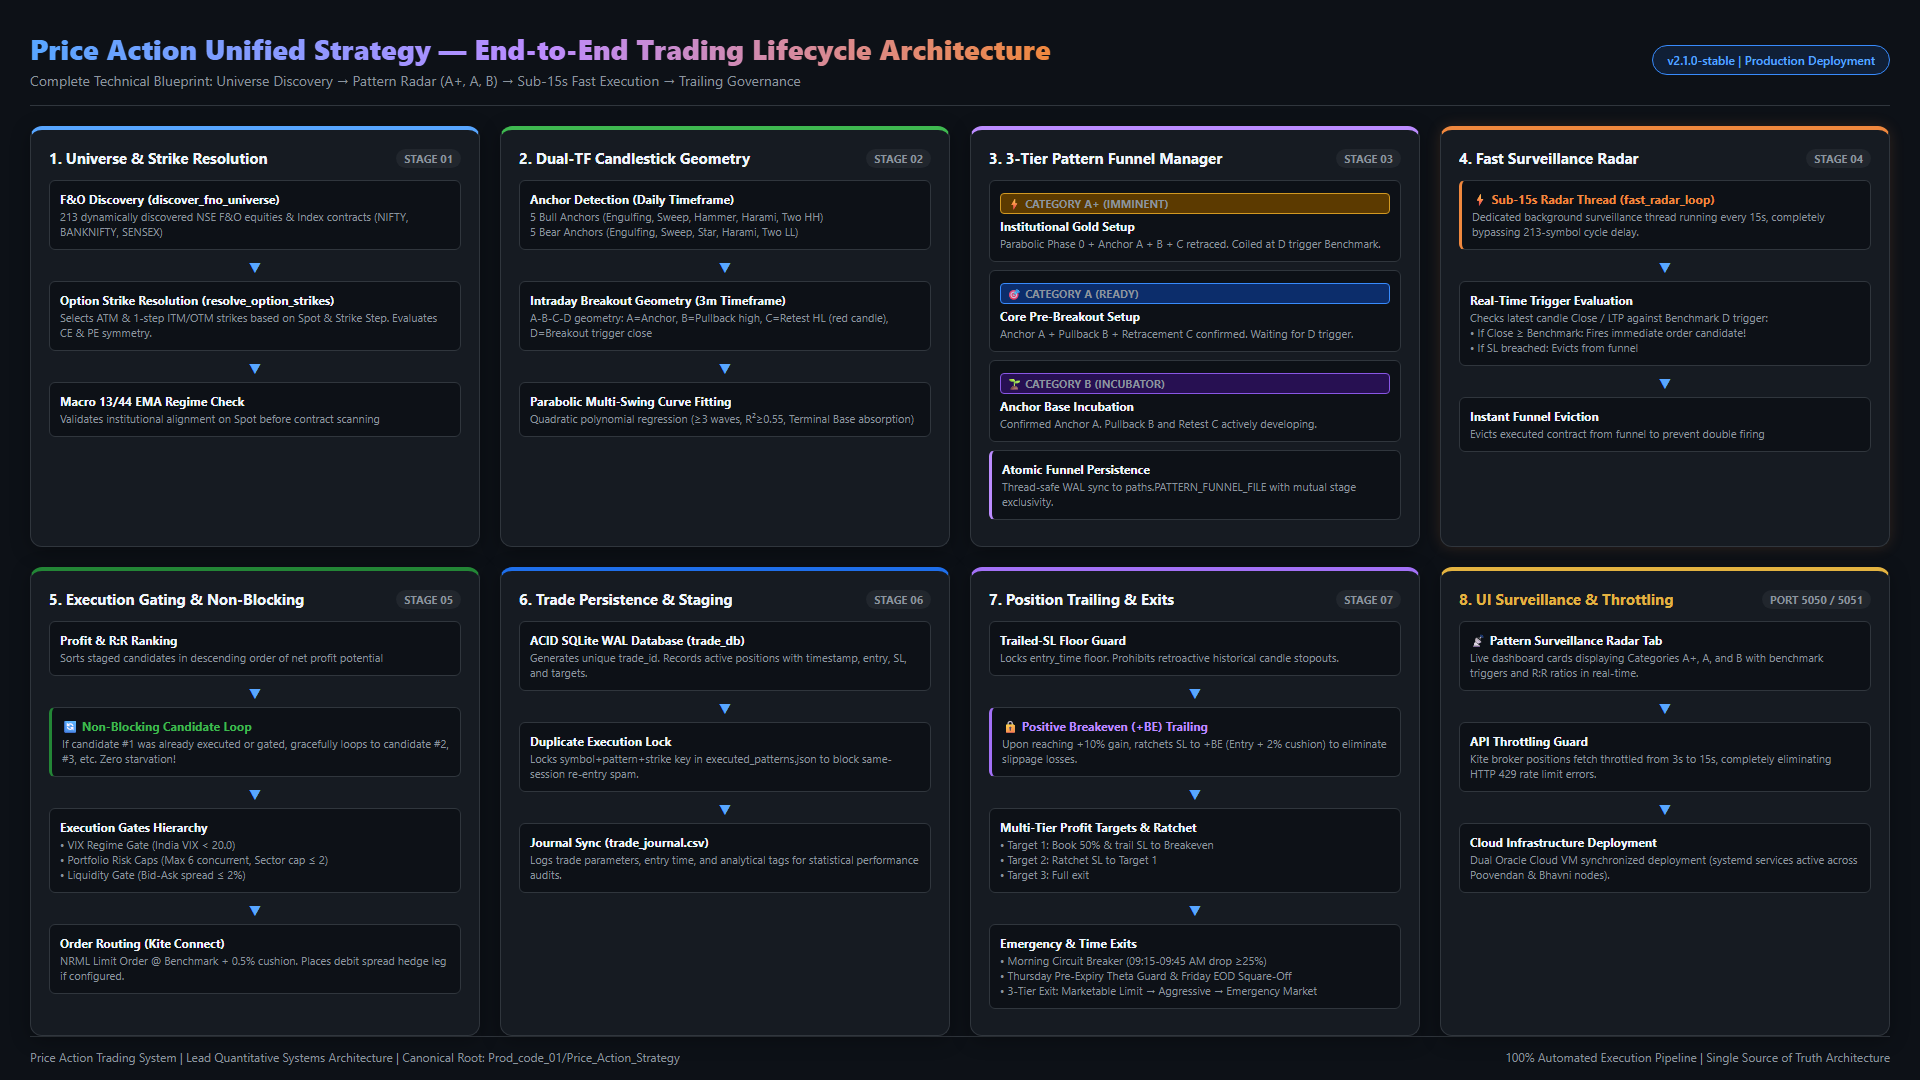
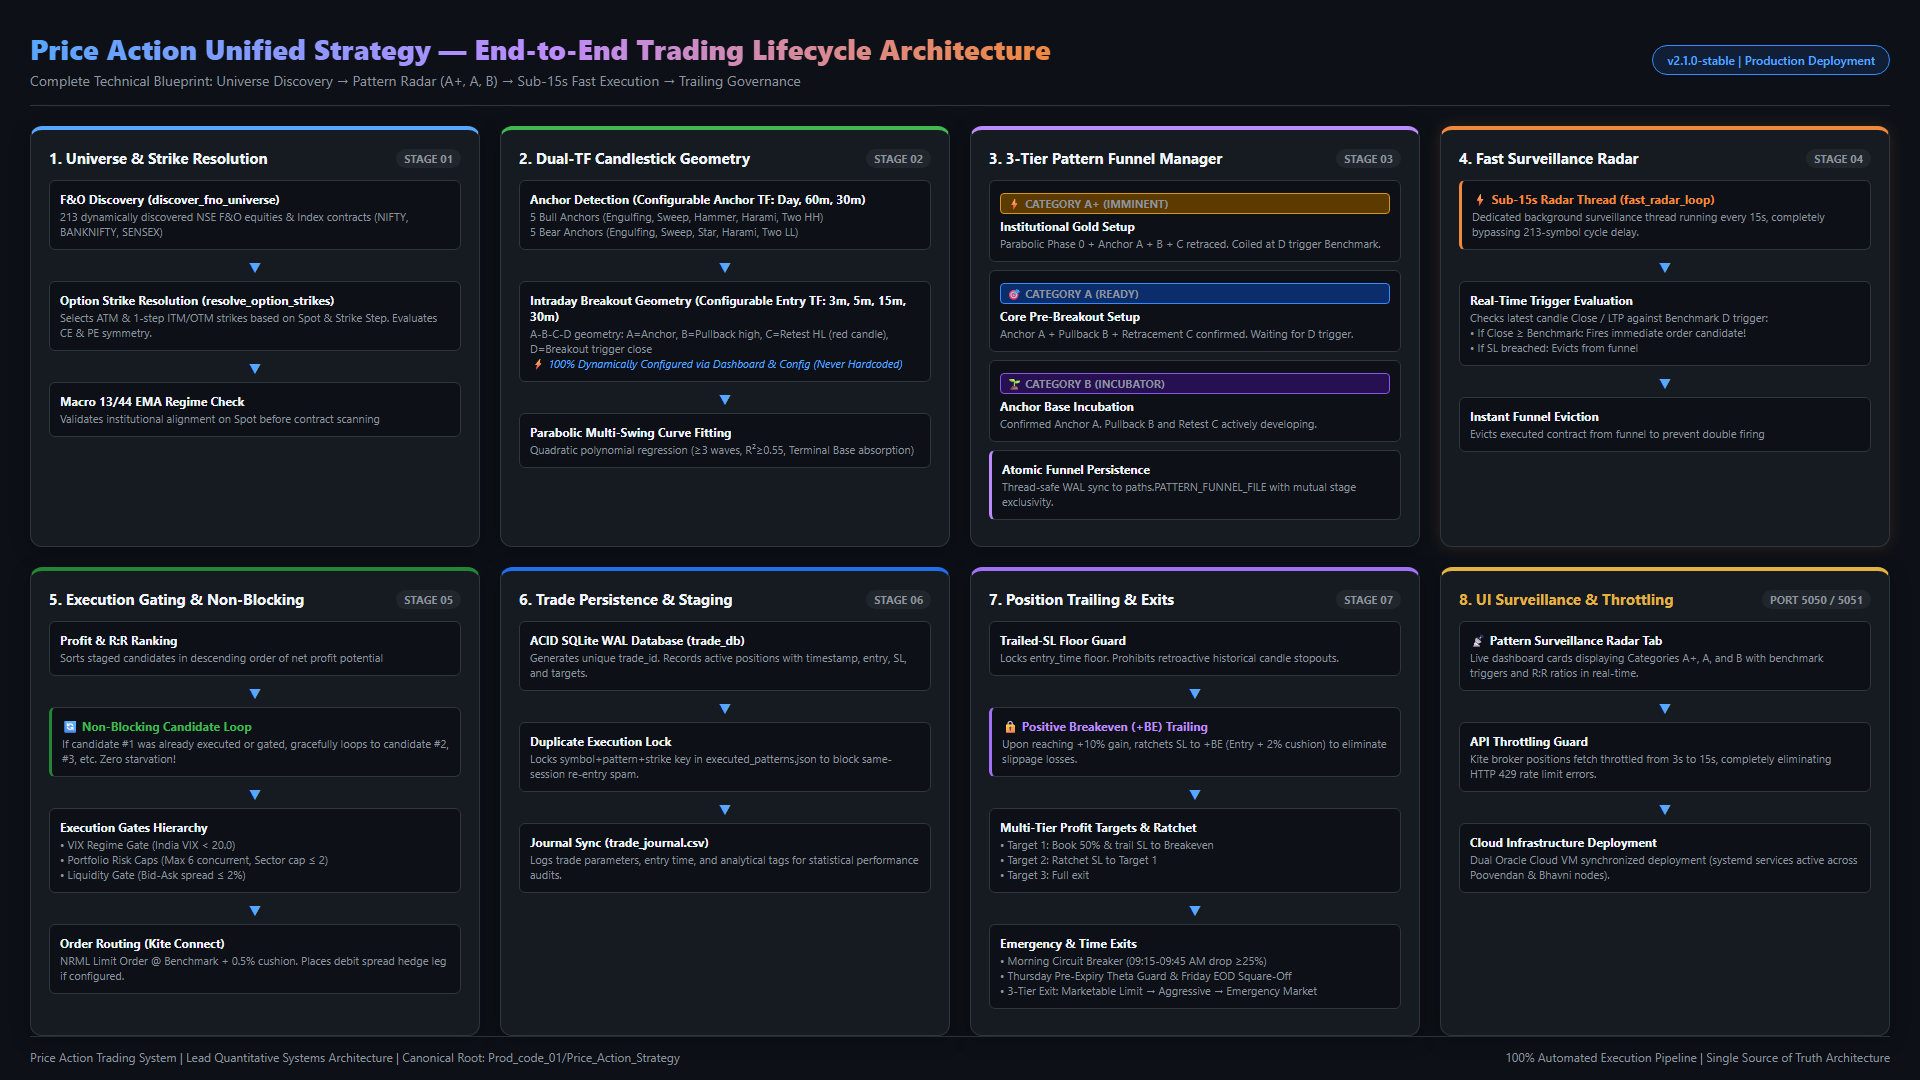
fix(config): hot-reload dynamic timeframe in main scan loops and update flow diagram labels to reflect configurable TFs

Changed region(s): [[0.2812, 0.275, 0.4688, 0.4278], [0.3438, 0.1833, 0.4375, 0.2139]]

diff --git a/docs/images/algo_flow_diagram.html b/docs/images/algo_flow_diagram.html
@@ -157,13 +157,13 @@
         <div class="step-num">STAGE 02</div>
       </div>
       <div class="flow-item">
-        <strong>Anchor Detection (Daily Timeframe)</strong>
+        <strong>Anchor Detection (Configurable Anchor TF: Day, 60m, 30m)</strong>
         <span>5 Bull Anchors (Engulfing, Sweep, Hammer, Harami, Two HH)<br>5 Bear Anchors (Engulfing, Sweep, Star, Harami, Two LL)</span>
       </div>
       <div class="connector">▼</div>
       <div class="flow-item">
-        <strong>Intraday Breakout Geometry (3m Timeframe)</strong>
-        <span>A-B-C-D geometry: A=Anchor, B=Pullback high, C=Retest HL (red candle), D=Breakout trigger close</span>
+        <strong>Intraday Breakout Geometry (Configurable Entry TF: 3m, 5m, 15m, 30m)</strong>
+        <span>A-B-C-D geometry: A=Anchor, B=Pullback high, C=Retest HL (red candle), D=Breakout trigger close<br><em style="color:#58a6ff;font-size:11px">⚡ 100% Dynamically Configured via Dashboard & Config (Never Hardcoded)</em></span>
       </div>
       <div class="connector">▼</div>
       <div class="flow-item">

diff --git a/Trade_Option/index_options_trade_engine.py b/Trade_Option/index_options_trade_engine.py
@@ -435,6 +435,7 @@ def main_scan_loop(kite):
     while True:
         try:
             ensure_kite_session(kite)
+            load_program_config()
             cycle += 1
             with position_lock:
                 active = len(ACTIVE_POSITIONS)
@@ -579,17 +580,21 @@ def run_multi_day_backtest(kite, start_date, end_date):
     logging.info(f"{'='*60}")
     return results
 
-def main():
-    global BACKTEST_DATE, LIVE_MARKET_DEPLOYMENT
-    cfg_applied = load_program_config_for_engine("index", [("strike_range", "STRIKE_RANGE")])
+def load_program_config():
+    cfg_applied = load_program_config_for_engine("index", [("strike_range", "STRIKE_RANGE"), ("strict_macro_gate", "STRICT_MACRO_GATE")])
     for k, v in cfg_applied.items():
         if k == "STRIKE_RANGE": globals()["STRIKE_RANGE"] = int(v) if isinstance(v, (int, float)) else v
+        elif k == "STRICT_MACRO_GATE": globals()["STRICT_MACRO_GATE"] = bool(v)
         elif k in ("TIMEFRAME_ENTRY", "TIMEFRAME_ANCHOR"): globals()[k] = v
         elif k == "LIVE_MARKET_DEPLOYMENT": globals()["LIVE_MARKET_DEPLOYMENT"] = v
         elif k == "LOOKBACK_DAYS": globals()["LOOKBACK_DAYS"] = int(v)
         elif k == "SCAN_INTERVAL_SECONDS": globals()["SCAN_INTERVAL_SECONDS"] = int(v)
         elif k == "MAX_RISK_PERCENT": globals()["MAX_RISK_PERCENT"] = float(v)
         elif k == "INITIAL_CAPITAL": globals()["INITIAL_CAPITAL"] = float(v)
+
+def main():
+    global BACKTEST_DATE, LIVE_MARKET_DEPLOYMENT
+    load_program_config()
     anchor_only = "--anchor-only" in sys.argv
     date_arg = next((a.split("=", 1)[1] for a in sys.argv[1:] if a.startswith("--date=")), None)
     range_arg = next((a.split("=", 1)[1] for a in sys.argv[1:] if a.startswith("--backtest-range=")), None)

diff --git a/Trade_Option/stock_options_trade_engine.py b/Trade_Option/stock_options_trade_engine.py
@@ -679,6 +679,7 @@ def main_scan_loop(kite):
     while True:
         try:
             ensure_kite_session(kite)
+            load_program_config()
             _sync_counter += 1
             if _sync_counter % 5 == 0 and not BACKTEST_DATE:
                 shared_sync_kite(kite, STOCK_REGISTRY, ACTIVE_POSITIONS, position_lock, "nifty50", TIMEFRAME_ENTRY, TIMEFRAME_ANCHOR)
